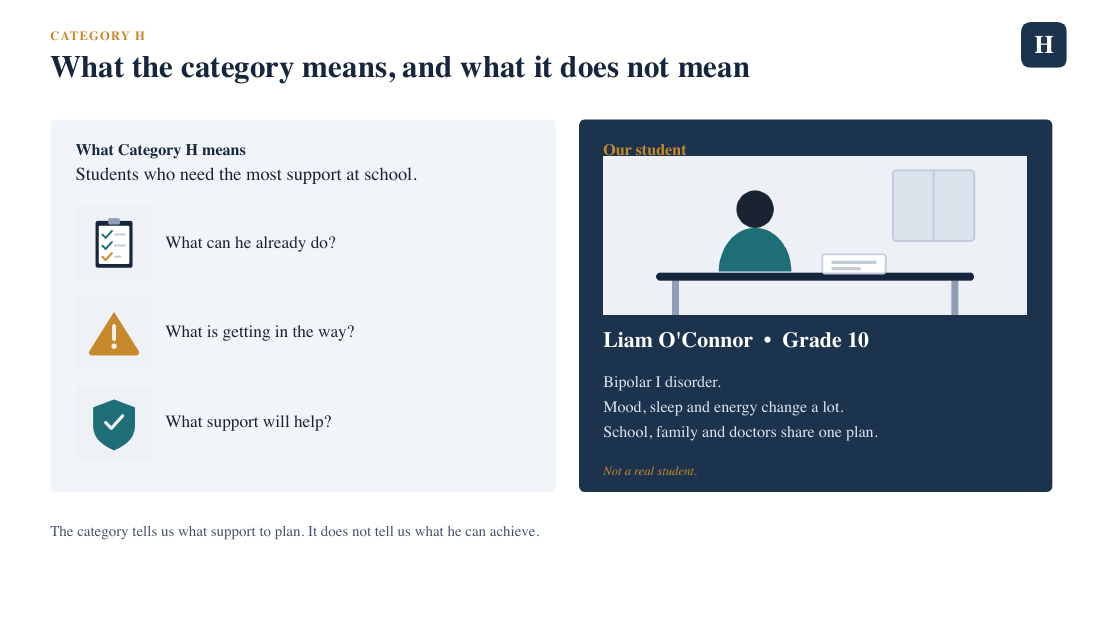
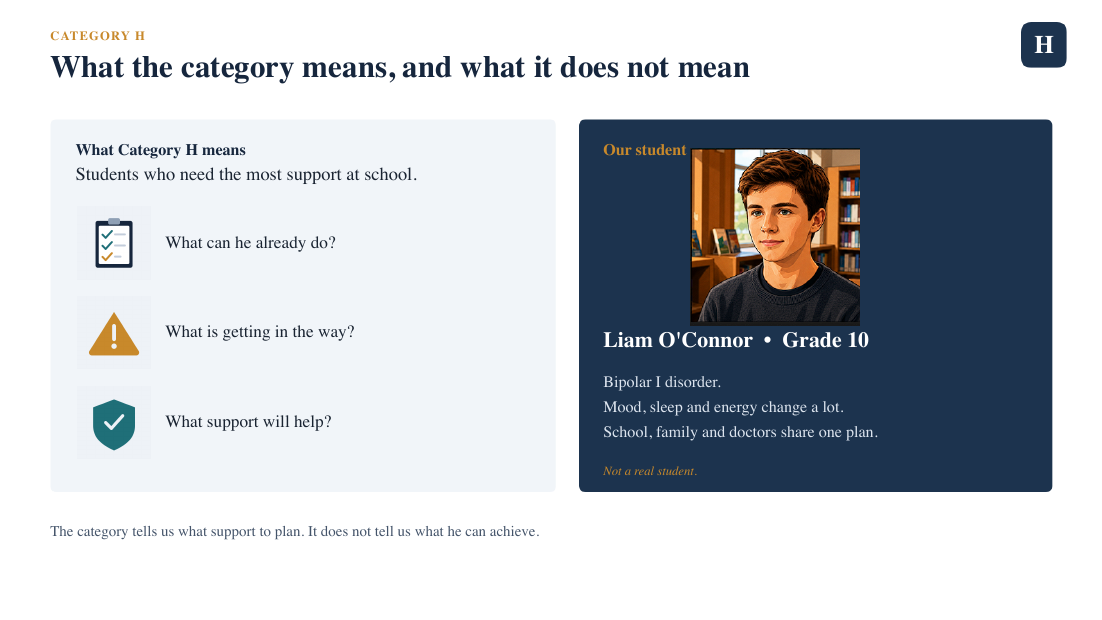
update

Changed region(s): [[0.5245, 0.2145, 0.9564, 0.5516]]

diff --git a/category_h_one_speaker_practice.html b/category_h_one_speaker_practice.html
@@ -60,13 +60,28 @@
     .button.primary:hover:not(:disabled) { background: #41423e; }
     .button.recording { background: var(--danger); border-color: var(--danger); color: white; }
     .button:disabled { cursor: not-allowed; opacity: .5; }
+    .view-menu { position: relative; }
+    .menu-button { width: 42px; padding: 5px; font-size: 22px; line-height: 1; }
+    .menu-panel {
+      position: absolute;
+      top: calc(100% + 8px);
+      right: 0;
+      width: 230px;
+      padding: 10px 12px;
+      border: 1px solid var(--line-strong);
+      border-radius: var(--radius);
+      background: var(--paper);
+      box-shadow: 0 2px 8px rgba(0, 0, 0, .1);
+    }
+    .menu-option { display: flex; align-items: center; gap: 9px; min-height: 36px; cursor: pointer; }
+    .menu-option input { width: 18px; height: 18px; margin: 0; }
     .follow-timer { display: flex; align-items: center; gap: 7px; color: var(--muted); font-size: 14px; white-space: nowrap; }
     .follow-timer input { width: 17px; height: 17px; }
     .timer-track { height: 4px; background: #ded8cd; }
     .timer-fill { width: 0; height: 100%; background: var(--accent); transition: width 250ms linear; }
 
     .layout { margin-top: 24px; margin-bottom: 64px; display: grid; grid-template-columns: 225px minmax(0, 1fr); gap: 24px; align-items: start; }
-    .slide-nav, .practice-panel, .practice-note, .recording-panel { border: 1px solid var(--line); border-radius: var(--radius); background: var(--paper); }
+    .slide-nav, .practice-panel, .recording-panel { border: 1px solid var(--line); border-radius: var(--radius); background: var(--paper); }
     .slide-nav { overflow: hidden; }
     .slide-nav h2 { margin: 0; padding: 14px 15px 12px; border-bottom: 1px solid var(--line); font-size: 15px; }
     .slide-list { list-style: none; margin: 0; padding: 0; }
@@ -101,9 +116,9 @@
     .panel-actions-group { display: flex; gap: 8px; }
     .slide-status { color: var(--muted); font-size: 14px; text-align: center; }
 
-    .practice-note, .recording-panel { margin-top: 18px; padding: 18px 20px; }
-    .practice-note h2, .recording-panel h2 { margin: 0 0 7px; font-size: 17px; }
-    .practice-note p, .recording-panel p { margin: 0; color: var(--muted); }
+    .recording-panel { margin-top: 18px; padding: 18px 20px; }
+    .recording-panel h2 { margin: 0 0 7px; font-size: 17px; }
+    .recording-panel p { margin: 0; color: var(--muted); }
     .recording-panel audio { display: block; width: 100%; margin-top: 12px; }
     .download-link { display: inline-block; margin-top: 9px; color: var(--accent); font-weight: 700; }
     .print-sheet { display: none; }
@@ -140,7 +155,7 @@
       .print-slide-image { display: block; width: 100%; margin: 0 0 12px; border: 1px solid #bbb; }
       .print-keywords { padding: 9px 12px; border: 1px solid #bbb; font-weight: 700; }
       .print-slide li { margin: 7px 0; }
-      .print-tip { padding: 12mm; border-top: 1px solid #bbb; }
+      body.hide-powerpoint .print-slide-image { display: none; }
     }
   </style>
 </head>
@@ -159,6 +174,12 @@
       <button class="button" id="timerReset" type="button">Reset</button>
       <label class="follow-timer"><input id="followTimer" type="checkbox" checked> Follow slide timings</label>
       <span class="toolbar-spacer"></span>
+      <div class="view-menu" id="viewMenu">
+        <button class="button menu-button" id="menuButton" type="button" aria-label="Show display menu" aria-expanded="false" aria-controls="menuPanel">☰</button>
+        <div class="menu-panel" id="menuPanel" hidden>
+          <label class="menu-option"><input id="showPowerPoint" type="checkbox" checked> Show PowerPoint slide</label>
+        </div>
+      </div>
       <button class="button" id="modeToggle" type="button" aria-pressed="false">Cue mode</button>
       <button class="button" id="recordToggle" type="button">Record voice</button>
       <button class="button" type="button" onclick="window.print()">Print</button>
@@ -179,8 +200,8 @@
           <div><h2 id="slideTitle"></h2><p class="slide-position" id="slidePosition"></p></div>
           <span class="slide-time" id="slideTime"></span>
         </header>
-        <figure class="slide-preview">
-          <img id="slideImage" src="assets/category_h_ujjwal/slide-1.png" alt="Category H PowerPoint slide 1">
+        <figure class="slide-preview" id="slidePreview">
+          <img id="slideImage" src="assets/category_h_ujjwal/slide-1.png?v=20260729-1240" alt="Category H PowerPoint slide 1">
           <figcaption>
             <span>Matching slide from Ujjwal Vashisht's PowerPoint</span>
             <a href="Special_Education_Category_H_Liam_OConnor%20-%20Ujjwal%20Vashisht.pptx">Open PowerPoint</a>
@@ -213,10 +234,6 @@
         <a class="download-link" id="downloadRecording" href="#" download="category-h-practice.webm">Download recording</a>
       </section>
 
-      <section class="practice-note">
-        <h2>Before you present</h2>
-        <p>Read it through twice with a timer. Pause after each slide changes. Look up at the end of every line — the pictures are doing half the work.</p>
-      </section>
     </div>
   </main>
 
@@ -315,10 +332,12 @@
     ];
 
     const totalSeconds = 495;
+    const slideAssetVersion = "20260729-1240";
     const state = {
       slideIndex: 0, cueMode: false, revealedLine: -1,
       timerRunning: false, timerStartedAt: 0, elapsedBeforeStart: 0, timerFrame: null,
-      recorder: null, stream: null, chunks: [], recordingUrl: null
+      recorder: null, stream: null, chunks: [], recordingUrl: null,
+      touchNavigation: null, menuOpen: false
     };
     const $ = (id) => document.getElementById(id);
     const elements = {
@@ -330,7 +349,9 @@
       timerFill: $("timerFill"), timerToggle: $("timerToggle"), timerReset: $("timerReset"),
       followTimer: $("followTimer"), recordToggle: $("recordToggle"), recordingPanel: $("recordingPanel"),
       recordingStatus: $("recordingStatus"), recordingPlayback: $("recordingPlayback"),
-      downloadRecording: $("downloadRecording"), printSheet: $("printSheet")
+      downloadRecording: $("downloadRecording"), printSheet: $("printSheet"), slidePreview: $("slidePreview"),
+      viewMenu: $("viewMenu"), menuButton: $("menuButton"), menuPanel: $("menuPanel"),
+      showPowerPoint: $("showPowerPoint")
     };
 
     const formatTime = (seconds) => {
@@ -342,6 +363,19 @@
       const found = slides.findIndex((slide) => seconds >= slide.start && seconds < slide.end);
       return found === -1 ? slides.length - 1 : found;
     };
+
+    function setMenuOpen(open) {
+      state.menuOpen = open;
+      elements.menuPanel.hidden = !open;
+      elements.menuButton.setAttribute("aria-expanded", String(open));
+      elements.menuButton.setAttribute("aria-label", open ? "Hide display menu" : "Show display menu");
+    }
+
+    function updatePowerPointVisibility() {
+      const visible = elements.showPowerPoint.checked;
+      elements.slidePreview.hidden = !visible;
+      document.body.classList.toggle("hide-powerpoint", !visible);
+    }
 
     function buildNavigation() {
       slides.forEach((slide, index) => {
@@ -375,7 +409,7 @@
       elements.slideTitle.textContent = slide.title;
       elements.slidePosition.textContent = `Slide ${state.slideIndex + 1} of ${slides.length}`;
       elements.slideTime.textContent = slide.timing;
-      elements.slideImage.src = `assets/category_h_ujjwal/slide-${state.slideIndex + 1}.png`;
+      elements.slideImage.src = `assets/category_h_ujjwal/slide-${state.slideIndex + 1}.png?v=${slideAssetVersion}`;
       elements.slideImage.alt = `Category H PowerPoint slide ${state.slideIndex + 1}: ${slide.title}`;
       elements.keywordLine.textContent = slide.keywords.join("  •  ");
       elements.scriptArea.innerHTML = "";
@@ -407,6 +441,15 @@
       state.revealedLine = -1;
       render();
       if (!fromTimer) document.querySelector(".practice-panel").scrollIntoView({ behavior: "smooth", block: "start" });
+    }
+
+    function atEndOfSlide() {
+      const panel = document.querySelector(".practice-panel");
+      return panel && panel.getBoundingClientRect().bottom <= window.innerHeight + 8;
+    }
+
+    function touchStartedOnControl(target) {
+      return Boolean(target?.closest?.("button, a, input, audio, select, textarea, [role='button']"));
     }
 
     function updateTimer() {
@@ -506,7 +549,7 @@
         keywords.textContent = `Key words: ${slide.keywords.join(" • ")}`;
         const image = document.createElement("img");
         image.className = "print-slide-image";
-        image.src = `assets/category_h_ujjwal/slide-${index + 1}.png`;
+        image.src = `assets/category_h_ujjwal/slide-${index + 1}.png?v=${slideAssetVersion}`;
         image.alt = `PowerPoint slide ${index + 1}: ${slide.title}`;
         const list = document.createElement("ul");
         slide.lines.forEach((line) => {
@@ -517,10 +560,6 @@
         section.append(title, meta, image, keywords, list);
         elements.printSheet.append(section);
       });
-      const tip = document.createElement("p");
-      tip.className = "print-tip";
-      tip.textContent = "Before you present: read it through twice with a timer. Pause after each slide changes. Look up at the end of every line — the pictures are doing half the work.";
-      elements.printSheet.append(tip);
     }
 
     elements.previousSlide.addEventListener("click", () => navigate(state.slideIndex - 1));
@@ -534,15 +573,54 @@
     elements.timerToggle.addEventListener("click", toggleTimer);
     elements.timerReset.addEventListener("click", resetTimer);
     elements.recordToggle.addEventListener("click", toggleRecording);
+    elements.menuButton.addEventListener("click", () => setMenuOpen(!state.menuOpen));
+    elements.showPowerPoint.addEventListener("change", () => {
+      updatePowerPointVisibility();
+      setMenuOpen(false);
+    });
+    document.addEventListener("click", (event) => {
+      if (state.menuOpen && !elements.viewMenu.contains(event.target)) setMenuOpen(false);
+    });
     document.addEventListener("keydown", (event) => {
+      if (event.key === "Escape" && state.menuOpen) {
+        setMenuOpen(false);
+        elements.menuButton.focus();
+        return;
+      }
       if (event.target.matches("button, input, audio")) return;
       if (event.key === "ArrowLeft") navigate(state.slideIndex - 1);
       if (event.key === "ArrowRight") navigate(state.slideIndex + 1);
       if (event.code === "Space") { event.preventDefault(); toggleTimer(); }
     });
+    document.addEventListener("touchstart", (event) => {
+      if (event.touches.length !== 1 || touchStartedOnControl(event.target)) {
+        state.touchNavigation = null;
+        return;
+      }
+      const touch = event.touches[0];
+      state.touchNavigation = {
+        x: touch.clientX,
+        y: touch.clientY,
+        startedAtEnd: atEndOfSlide()
+      };
+    }, { passive: true });
+    document.addEventListener("touchend", (event) => {
+      const start = state.touchNavigation;
+      state.touchNavigation = null;
+      if (!start || event.changedTouches.length !== 1) return;
+      const touch = event.changedTouches[0];
+      const deltaX = touch.clientX - start.x;
+      const deltaY = touch.clientY - start.y;
+      const isUpwardSwipe = deltaY <= -50 && Math.abs(deltaY) > Math.abs(deltaX) * 1.2;
+      if (start.startedAtEnd && isUpwardSwipe && state.slideIndex < slides.length - 1) {
+        event.preventDefault();
+        navigate(state.slideIndex + 1);
+      }
+    }, { passive: false });
 
     buildNavigation();
     buildPrintSheet();
+    updatePowerPointVisibility();
     render();
     updateTimer();
   </script>
